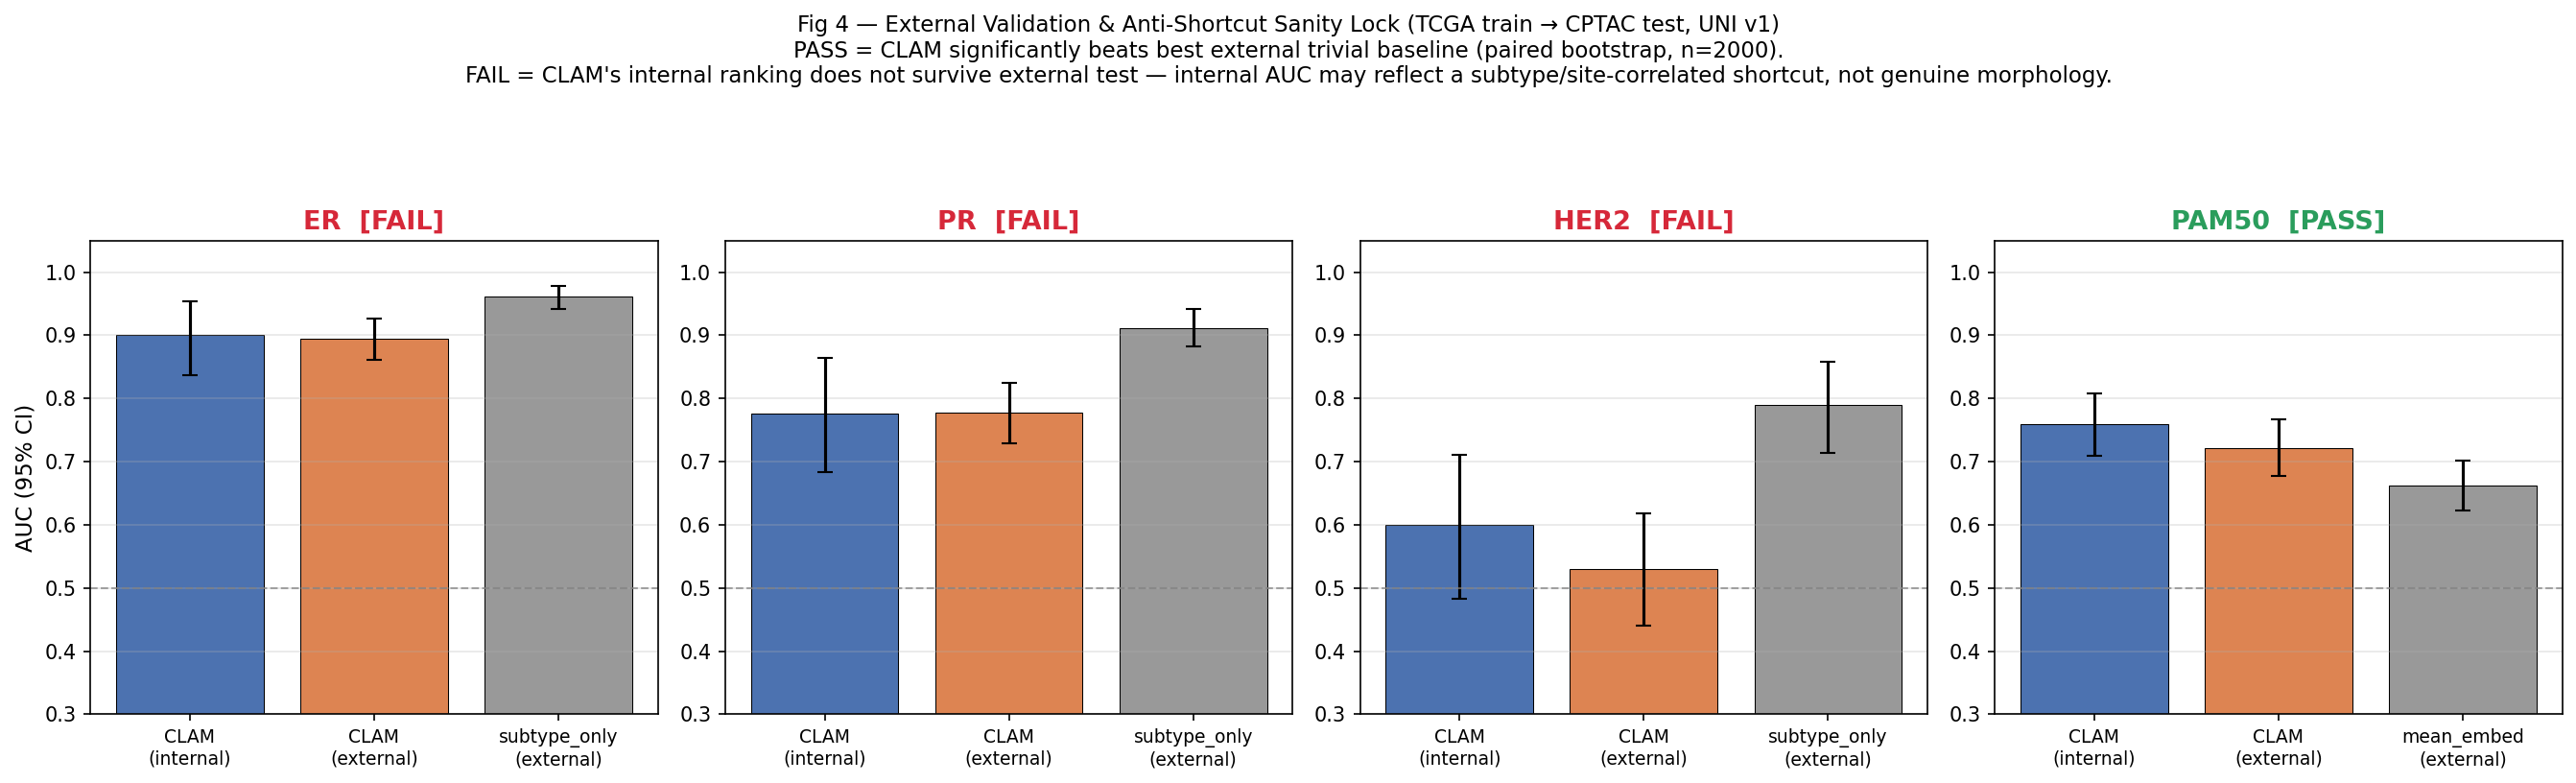
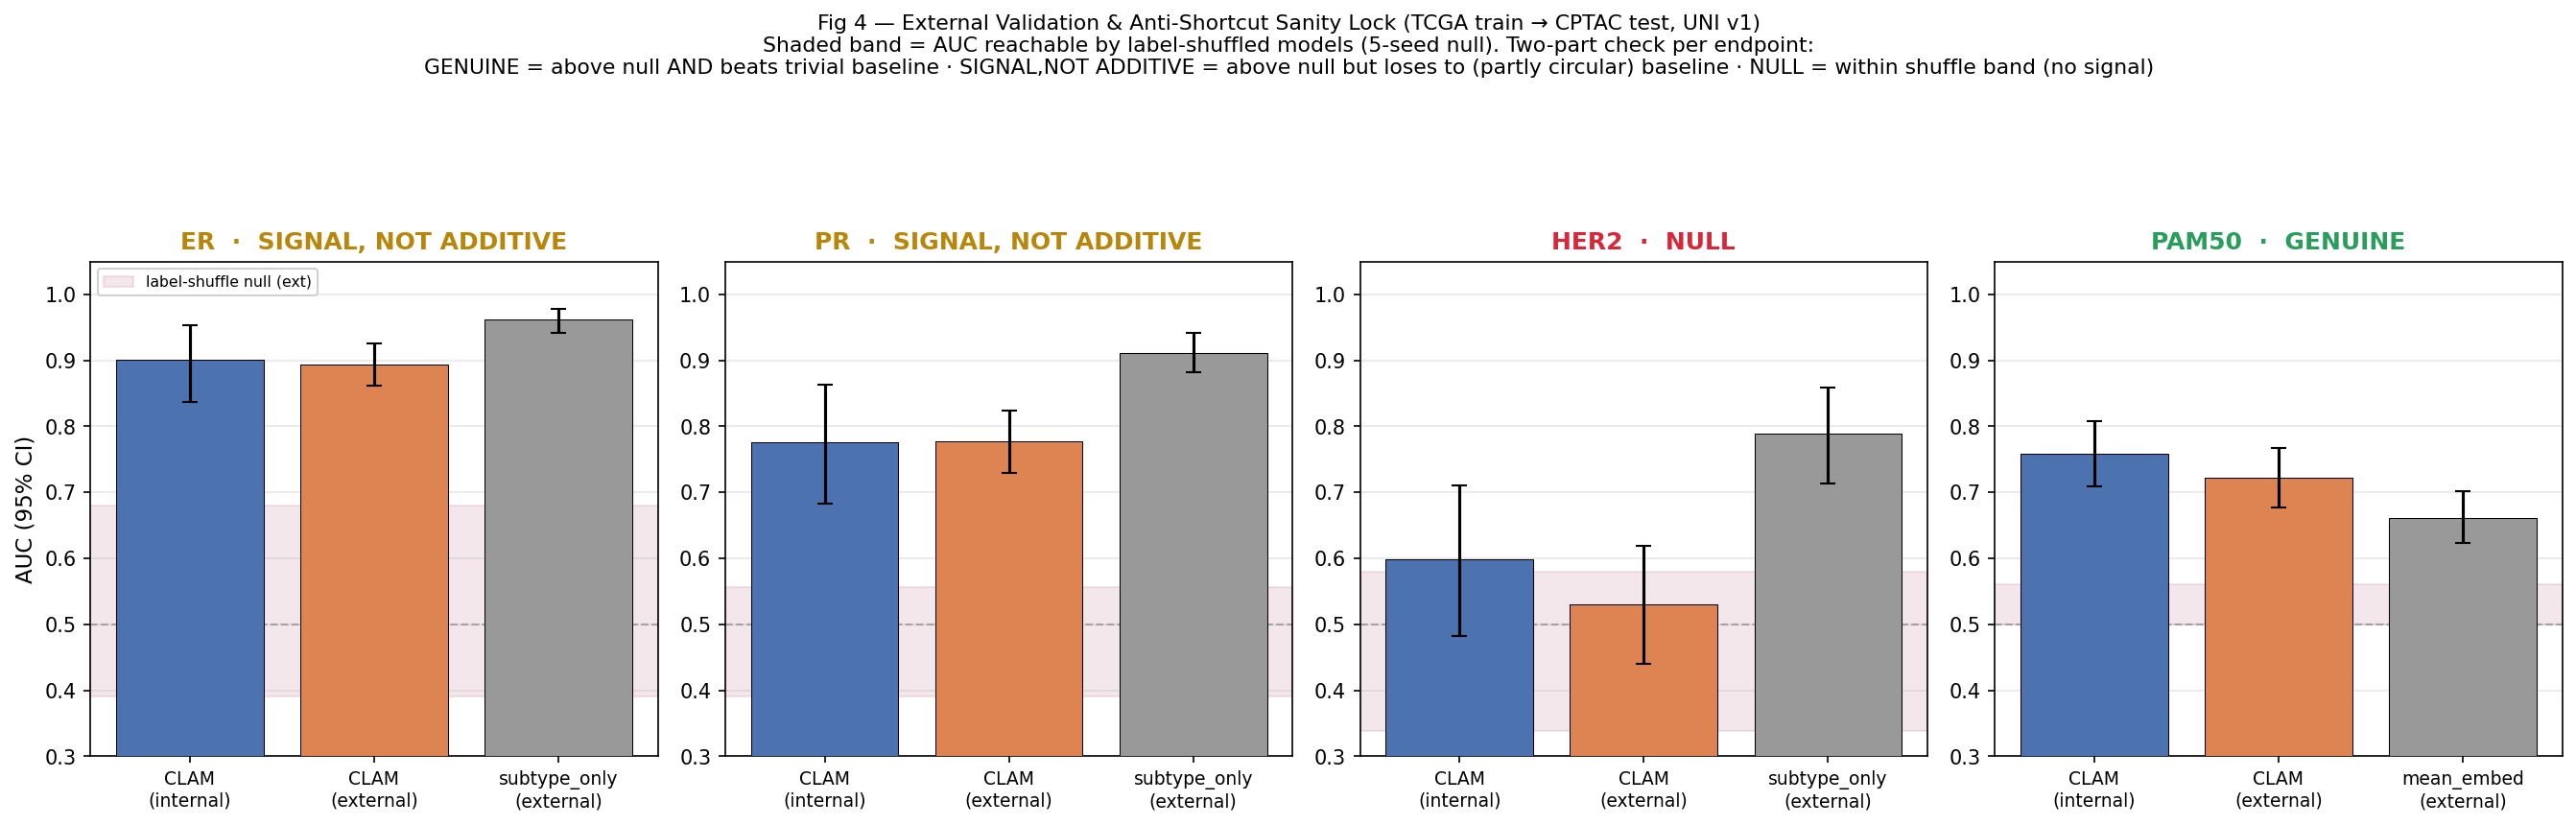
BIOP02-68 fix: Fig 4에 label-shuffle null band + 3분류 판정 반영 (critic 대응 최신화)
기존 Fig 4(3bd853d)가 이후 critic 대응(multi-seed label-shuffle, c8c21a1)을 미반영한
상태였음. anti-shortcut sanity lock의 핵심이 label-shuffle인데 정작 그림에 없었고
ER/PR/HER2를 동일 FAIL로 뭉뚱그림.

수정:
- 패널별 external label-shuffle null 밴드(5-seed min~max)를 음영으로 표시
- 판정을 2단계 3분류로 재정의:
    GENUINE            = null 위 + baseline 유의 상회 (진짜 형태학 이득)
    SIGNAL,NOT ADDITIVE= null 위이나 (부분 순환적) baseline엔 밀림
    NULL               = shuffle null 안 (라벨 섞은 모델과 구분 안 됨)

결과:
  ER    SIGNAL,NOT ADDITIVE (ext 0.894 > null[0.39,0.68], subtype_only 0.9615)
  PR    SIGNAL,NOT ADDITIVE (ext 0.778 > null[0.39,0.56], subtype_only 0.9117)
  HER2  NULL               (ext 0.530 ∈ null[0.34,0.58]) — band 안, 신호 없음
  PAM50 GENUINE            (ext 0.722 > null[0.50,0.56], mean_embed 0.6616)

diff --git a/agents/modeling/scripts/make_fig4_external_sanity_lock.py b/agents/modeling/scripts/make_fig4_external_sanity_lock.py
@@ -81,7 +81,10 @@ def main():
 
     exp_dir = Path(args.experiments_dir)
 
-    fig, axes = plt.subplots(1, 4, figsize=(18, 5.5))
+    # multi-seed label-shuffle null 분포 (BIOP02-53 c8c21a1) — anti-shortcut의 핵심 근거
+    shuffle_null = load_json(exp_dir / "label_shuffle_multiseed_summary.json") or {}
+
+    fig, axes = plt.subplots(1, 4, figsize=(18, 5.8))
     summary = {}
 
     for ax, task in zip(axes, TASKS):
@@ -92,6 +95,10 @@ def main():
         int_auc, int_ci = (metrics or {}).get("auc"), (metrics or {}).get("auc_ci_95")
         ext_auc, ext_ci = (metrics or {}).get("ext_auc"), (metrics or {}).get("ext_auc_ci_95")
         base_auc, base_ci = get_baseline(baselines, task["best_baseline_name"])
+
+        # 외부 shuffle null 밴드 (label을 섞은 모델이 도달하는 AUC 범위)
+        null_ext = (shuffle_null.get(task["label"], {}) or {}).get("external", {})
+        null_lo, null_hi = null_ext.get("null_min"), null_ext.get("null_max")
 
         bars = [
             ("CLAM\n(internal)", int_auc, int_ci, "#4C72B0"),
@@ -106,19 +113,33 @@ def main():
         colors = [b[3] for b in bars]
 
         x = np.arange(len(labels))
-        ax.bar(x, aucs, yerr=[errs_lo, errs_hi], capsize=4, color=colors, edgecolor="black", linewidth=0.5)
-        ax.axhline(0.5, color="gray", linestyle="--", linewidth=1, alpha=0.7)
+        # shuffle null 밴드를 배경에 음영으로 (external label-shuffle 5-seed min~max)
+        if null_lo is not None and null_hi is not None:
+            ax.axhspan(null_lo, null_hi, color="#B0466A", alpha=0.13, zorder=0,
+                       label="label-shuffle null (ext)")
+        ax.bar(x, aucs, yerr=[errs_lo, errs_hi], capsize=4, color=colors, edgecolor="black", linewidth=0.5, zorder=3)
+        ax.axhline(0.5, color="gray", linestyle="--", linewidth=1, alpha=0.7, zorder=1)
         ax.set_xticks(x)
         ax.set_xticklabels(labels, fontsize=9)
         ax.set_ylim(0.3, 1.05)
         if ax is axes[0]:
             ax.set_ylabel("AUC (95% CI)", fontsize=11)
-        ax.grid(axis="y", alpha=0.3)
+            ax.legend(fontsize=7.5, loc="upper left", framealpha=0.9)
+        ax.grid(axis="y", alpha=0.3, zorder=0)
 
-        passed = bool(sig and sig.get("significant_at_0.05") and sig.get(task["sig_diff_key"], -1) > 0)
-        verdict = "PASS" if passed else "FAIL"
-        color = "#2A9D5C" if passed else "#D62839"
-        ax.set_title(f"{task['label']}  [{verdict}]", fontsize=13, fontweight="bold", color=color)
+        # 3분류 판정:
+        #  GENUINE — external이 shuffle null 위 + baseline을 유의하게 상회 (진짜 형태학 이득)
+        #  SIGNAL  — external이 shuffle null 위이나 baseline은 못 넘음 (신호는 있으나 additive 아님)
+        #  NULL    — external이 shuffle null 안 (라벨 섞은 모델과 구분 안 됨 = 신호 없음)
+        beats_baseline = bool(sig and sig.get("significant_at_0.05") and sig.get(task["sig_diff_key"], -1) > 0)
+        above_null = bool(null_hi is not None and ext_auc is not None and ext_auc > null_hi)
+        if not above_null:
+            verdict, vcolor = "NULL", "#D62839"
+        elif beats_baseline:
+            verdict, vcolor = "GENUINE", "#2A9D5C"
+        else:
+            verdict, vcolor = "SIGNAL, NOT ADDITIVE", "#B8860B"
+        ax.set_title(f"{task['label']}  ·  {verdict}", fontsize=12, fontweight="bold", color=vcolor)
 
         summary[task["label"]] = {
             "internal_auc": int_auc,
@@ -128,18 +149,22 @@ def main():
             "external_best_baseline": task["best_baseline_name"],
             "external_best_baseline_auc": base_auc,
             "external_best_baseline_ci_95": base_ci,
+            "shuffle_null_ext_min": null_lo,
+            "shuffle_null_ext_max": null_hi,
+            "external_above_shuffle_null": above_null,
+            "beats_external_baseline": beats_baseline,
             "paired_diff_clam_minus_baseline": sig.get(task["sig_diff_key"]) if sig else None,
             "p_value_approx": sig.get("p_value_approx") if sig else None,
-            "sanity_lock": "PASS" if passed else "FAIL",
+            "verdict": verdict,
         }
 
     fig.suptitle(
         "Fig 4 — External Validation & Anti-Shortcut Sanity Lock (TCGA train → CPTAC test, UNI v1)\n"
-        "PASS = CLAM significantly beats best external trivial baseline (paired bootstrap, n=2000).\n"
-        "FAIL = CLAM's internal ranking does not survive external test — internal AUC may reflect a subtype/site-correlated shortcut, not genuine morphology.",
-        fontsize=11,
+        "Shaded band = AUC reachable by label-shuffled models (5-seed null). Two-part check per endpoint:\n"
+        "GENUINE = above null AND beats trivial baseline · SIGNAL,NOT ADDITIVE = above null but loses to (partly circular) baseline · NULL = within shuffle band (no signal)",
+        fontsize=10.5,
     )
-    plt.tight_layout(rect=[0, 0, 1, 0.88])
+    plt.tight_layout(rect=[0, 0, 1, 0.86])
 
     out_path = Path(args.out)
     out_path.parent.mkdir(parents=True, exist_ok=True)
@@ -152,8 +177,8 @@ def main():
 
     print("\n요약:")
     for label, s in summary.items():
-        print(f"  {label:6s} internal={s['internal_auc']}  external={s['external_auc']}  "
-              f"vs {s['external_best_baseline']}={s['external_best_baseline_auc']}  -> {s['sanity_lock']}")
+        print(f"  {label:6s} ext={s['external_auc']}  null_ext=[{s['shuffle_null_ext_min']},{s['shuffle_null_ext_max']}]  "
+              f"vs {s['external_best_baseline']}={s['external_best_baseline_auc']}  -> {s['verdict']}")
 
 
 if __name__ == "__main__":